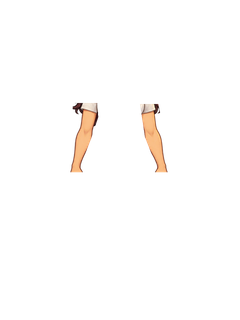
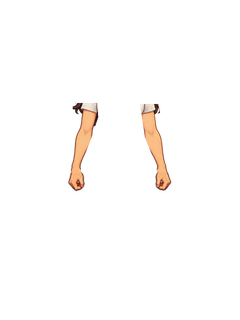
fix: preserve continuous female wrists and exclude legacy hand cuts

Changed region(s): [[0.6417, 0.5312, 0.7292, 0.5938], [0.2625, 0.5312, 0.35, 0.5938]]

diff --git a/lib/widgets/questwell_scout_wardrobe.dart b/lib/widgets/questwell_scout_wardrobe.dart
@@ -32,8 +32,6 @@ class QuestwellScoutWardrobeFoundation extends StatelessWidget {
       if (layers.contains('top')) ClipPath(clipper: ScoutWardrobeClipper(body, 'top'),
           child: image(asset(body, 'top'))),
       if (layers.contains('trousers')) image(asset(body, 'trousers')),
-      if (body == 'female') ClipPath(clipper: const ScoutWardrobeClipper('female', 'hands'),
-        child: image('assets/images/questwell/avatar/base/base_female.webp')),
     ]);
     return layers.contains('robe')
         ? ClipPath(clipper: ScoutWardrobeClipper(body, 'robeUnder'), child: contents)
@@ -62,12 +60,6 @@ class ScoutWardrobeClipper extends CustomClipper<Path> {
         ..addRect(const Rect.fromLTRB(142, 108, 240, 202)));
     } else if (part == 'neck') {
       p = Path()..addRect(const Rect.fromLTRB(106, 70, 135, 85));
-    } else if (part == 'hands') {
-      // Include the complete original hands below the suit cuffs. The older
-      // narrow polygons cut into the skin and created triangular wrist joins.
-      p = Path()
-        ..addPolygon(const [Offset(65,171),Offset(85,171),Offset(90,195),Offset(60,195)], true)
-        ..addPolygon(const [Offset(155,171),Offset(174,171),Offset(179,195),Offset(153,195),Offset(153,182)], true);
     } else if (part == 'robeUnder') {
       final wristTop = body == 'female' ? 166.0 : 169.0;
       p = Path()..addRect(const Rect.fromLTRB(0, 0, 240, 77))

diff --git a/lib/widgets/questwell_pixel_art.dart b/lib/widgets/questwell_pixel_art.dart
@@ -300,7 +300,7 @@ class QuestwellLayeredAdventurerArt extends StatelessWidget {
           if (equippedSlugs['feet'] == QuestwellPathfinderBoots.slug)
             QuestwellPathfinderBoots(bodyType: body),
           if (classOverlay != null) classLayer(classOverlay),
-          if (modular) ClipPath(clipper: classOverlay != null
+          if (modular) ClipPath(clipper: classOverlay != null || body == 'female'
               ? ScoutWardrobeClipper(body, 'identityHead')
               : CleanBaseClipper(body, 'identity'),
             child: equippedSlugs['hands'] == QuestwellAnnotatedGrimoire.slug

diff --git a/tool/export_scout_female_v5.py b/tool/export_scout_female_v5.py
@@ -5,6 +5,7 @@ one uniform scale and translation per source. No thin-plate fit is used.
 """
 from pathlib import Path
 from PIL import Image, ImageDraw, ImageChops
+import numpy as np
 
 ROOT = Path(__file__).resolve().parents[1]
 SRC = ROOT / 'tool/art_assets/scout_female_v5'
@@ -36,10 +37,22 @@ def save(im, name):
 
 base = source('arms_top')
 arms = [
-    [(73,103),(97,103),(98,117),(91,138),(81,164),(84,172),(66,172),(64,158),(67,136),(72,117)],
-    [(140,104),(158,104),(165,137),(173,160),(172,172),(153,172),(156,165),(145,137)],
+    [(73,103),(97,103),(98,117),(91,138),(81,164),(80.5,171),(83,175),(70,175),(71,171),(64,158),(67,136),(72,117)],
+    [(140,104),(158,104),(165,137),(173,160),(167,171),(169,175),(156,175),(157,171),(156,165),(145,137)],
 ]
-save(select(base,arms), 'base/clean_arms_female_v2.webp')
+arm_image = select(base,arms)
+# Preserve the original fists and their registration. Feather only the three
+# wrist rows where the new forearm meets the original skin; never warp a hand.
+original = Image.open(OUT/'base/base_female.webp').convert('RGBA').resize((240*S,320*S),Image.Resampling.LANCZOS)
+hands = select(original, [[(60,171),(85,171),(85,196),(60,196)],[(155,171),(180,171),(180,196),(155,196)]])
+aa = np.array(arm_image)
+ha = np.array(hands)
+aa[171*S:,:,3] = (aa[171*S:,:,3].astype(float)*ha[171*S:,:,3]/255).astype('uint8')
+arm_image = Image.fromarray(aa)
+fade = np.clip((np.arange(320*S)/S-171)/3,0,1)
+ha[:,:,3] = (ha[:,:,3]*fade[:,None]).astype('uint8')
+arm_image.alpha_composite(Image.fromarray(ha))
+save(arm_image, 'base/clean_arms_female_v2.webp')
 top = [[(110,77),(128,77),(134,82),(148,85),(153,93),(156,113),(144,117),(141,130),(145,149),(142,153),(97,153),(94,146),(99,127),(97,114),(80,111),(83,92),(93,85),(105,82)]]
 save(select(base,top), 'scout_top_female_v5.webp')
 pants = [[(96,150),(149,150),(153,174),(156,194),(240,195),(240,320),(0,320),(0,195),(91,195),(91,175)]]

diff --git a/docs/art/SCOUT_FEMALE_V5.md b/docs/art/SCOUT_FEMALE_V5.md
@@ -19,3 +19,5 @@ Review the actual in-app image for arm taper, wrist continuity, right hip/thigh 
 ## Generation provenance
 
 Built-in imagegen was used, with transparent alpha, under identity-preserve / precise-object-edit / compositing requests. Core direction: preserve the original identity and stance; correct only distorted arms/wrist joins and the right trouser contour; draw the rustic olive Scout robe on the body with straight hip seams, small wrist openings, natural cloth folds, narrow brown edging, flax fern embroidery and a continuous back panel. Intermediate generated avatars are not replacements for the approved base identity.
+
+Live-preview correction: the female renderer now restores only the original head/hair after its repaired foundation, so the old incomplete hand masks cannot be drawn over the new joins. The original fist pixels are extracted with tight hand-only bounds to exclude neighboring suit trousers. Only the three wrist rows y=171..174 are feathered into the repaired forearms; the original grip artwork and coordinates below that seam are retained. This also removes detached suit slivers beside the hands.
